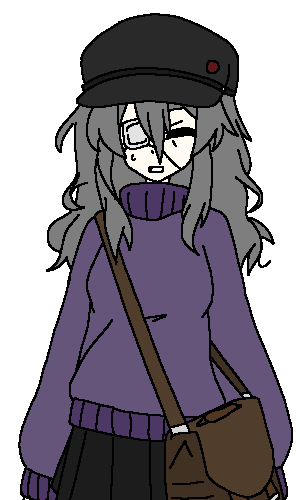
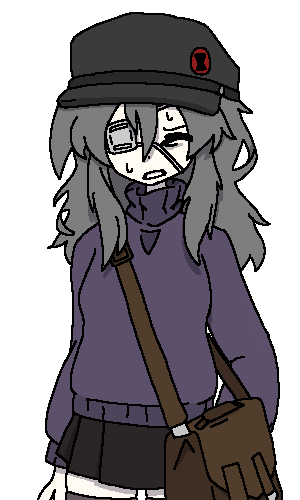
Added new Aina portraits, changed names

Changed region(s): [[0.06, 0.0, 0.99, 1.0], [0.6, 0.03, 0.69, 0.06], [0.78, 0.69, 0.81, 0.72]]

diff --git a/js/effects.js b/js/effects.js
@@ -9,50 +9,51 @@ function backgroundFollowMouse() {
             background.style.transform = `translate3d(calc(${x}px - 50%), calc(${y}px - 50%), 0)`;
         }, "10"); // No reason to run it every millisecond
     });
-} backgroundFollowMouse();
+}
+backgroundFollowMouse();
+
 
 // ======== Clickable Aina ========
 
-var i = 0;
 var squeak = new Audio("/audio/squeak.ogg");
-var images = ["/img/Aina_Looktoside.png", "/img/Aina_Sweat.png", "/img/Aina_Gross.png", "/img/Aina_Neutral.png"]
+var ainaIndex = 0;
+var ainaPortraits = ["/img/Aina_LookToSide.png", "/img/Aina_Sweat.png", "/img/Aina_Gross.png", "/img/Aina_Surprise.png", 
+    "/img/Aina_Embarrassed.png", "/img/Aina_DeadInside.png", "/img/Aina_Neutral.png"]
 
 function changeImage() {
     let img = document.getElementById("character-img");
-    img.src = images[i];
-    if (i > 2) {
-        i = 0;
+    img.src = ainaPortraits[ainaIndex];
+    if (ainaIndex > ainaPortraits.length - 2) {
+        ainaIndex = 0;
     } else {
-        i++;
+        ainaIndex++;
     }
     squeak.cloneNode().play();
-    // document.getElementById("aina-squeak").play();
 }
 
 function selectSFX() {
     document.getElementById('select-sfx').play();
 }
 
-var a = document.getElementsByClassName('snake');
-function animateSequence() {
-    for (var i = 0; i < a.length; i++) {
-        var $this = a[i];
-        var letter = $this.innerHTML;
-        letter = letter.trim();
-        var str = '';
-        var delay = 100;
-        for (l = 0; l < letter.length; l++) {
-            if (letter[l] != ' ') {
-                str += '<span>' + letter[l] + '</span>';
-            } else
-                str += letter[l];
-        }
-        $this.innerHTML = str;
-    }
-}
+// var a = document.getElementsByClassName('snake');
+// function animateSequence() {
+//     for (var i = 0; i < a.length; i++) {
+//         var $this = a[i];
+//         var letter = $this.innerHTML;
+//         letter = letter.trim();
+//         var str = '';
+//         var delay = 100;
+//         for (l = 0; l < letter.length; l++) {
+//             if (letter[l] != ' ') {
+//                 str += '<span>' + letter[l] + '</span>';
+//             } else
+//                 str += letter[l];
+//         }
+//         $this.innerHTML = str;
+//     }
+// }
 
 // animateSequence();
-
 
 
 // ======== CLICK EXPLOSION ========
@@ -106,6 +107,7 @@ function createAudioElement(_parent, _file, _loop) {
     
     audio.play();
 }
+
 
 // ======== MODAL ========
 

diff --git a/css/default.css b/css/default.css
@@ -130,9 +130,6 @@ small {
   color: #f53ea2;
 }
 
-blockquote {
-  margin: 2vh 2vh;
-}
 blockquote.left {
   border-left: 4px solid #a80ba0;
   padding-left: 20px;
@@ -213,15 +210,15 @@ img.title-img {
   -webkit-text-stroke: 0.01rem rgba(255, 240, 246, 0.4392156863);
 }
 
-.introduction {
+#introduction {
   grid-area: a;
   padding-left: 10%;
 }
-.introduction h1 {
+#introduction h1 {
   font-size: 1.6vw;
   margin-bottom: 2vh;
 }
-.introduction h2 {
+#introduction h2 {
   font-family: "Sedgwick Ave Display", sans-serif;
   font-size: 3vw;
   margin-bottom: 4vh;
@@ -542,13 +539,10 @@ h1.page-title {
   background-image: url("/gallery/waking-dreams/Space_BG.png");
   width: 200%;
   height: 200vh;
-  opacity: 60%;
-  background-position: bottom;
   position: fixed;
-  top: -100%;
-  left: -100%;
-  animation: scroll 60s linear infinite;
   z-index: -2;
+  animation: scroll 60s linear infinite;
+  opacity: 60%;
 }
 
 .modal {
@@ -734,31 +728,54 @@ input:checked + .slider:before {
 }
 @keyframes scroll {
   100% {
-    transform: translate(768px, 768px);
+    background-position: 768px 768px;
   }
 }
-.snake span {
+.wavey-text {
+  margin-top: 4px;
+  margin-bottom: 4px;
   display: inline flex;
-  animation: snake 0.5s ease-in-out infinite alternate;
+  text-decoration: none;
 }
-.snake span:nth-child(1) {
+.wavey-text span {
+  animation: wavey 0.5s ease-in-out infinite alternate;
+}
+.wavey-text:nth-child(1) {
   animation-delay: 0s;
 }
-.snake span:nth-child(2) {
+.wavey-text:nth-child(2) {
   animation-delay: 0.2s;
 }
-.snake span:nth-child(3) {
+.wavey-text:nth-child(3) {
   animation-delay: 0.4s;
 }
-.snake span:nth-child(4) {
+.wavey-text:nth-child(4) {
   animation-delay: 0.6s;
 }
-
-@keyframes snake {
-  0% {
+@keyframes wavey {
+  from {
     transform: translateY(4px);
   }
-  100% {
+  to {
     transform: translateY(-4px);
   }
+}
+.wavey-text :nth-child(5n+0) {
+  animation-delay: -0.2ss;
+}
+
+.wavey-text :nth-child(5n+1) {
+  animation-delay: -0.16ss;
+}
+
+.wavey-text :nth-child(5n+2) {
+  animation-delay: -0.12ss;
+}
+
+.wavey-text :nth-child(5n+3) {
+  animation-delay: -0.08ss;
+}
+
+.wavey-text :nth-child(5n+4) {
+  animation-delay: -0.04ss;
 }/*# sourceMappingURL=default.css.map */

diff --git a/css/default.scss b/css/default.scss
@@ -99,7 +99,7 @@ small {
 }
 
 blockquote {
-    margin: 2vh 2vh;
+    // margin: 2vh 2vh;
 
     &.left {
         border-left: 4px solid $primary-color;
@@ -199,7 +199,7 @@ img {
     -webkit-text-stroke: 0.01rem $neon-dim-color;
 }
 
-.introduction {
+#introduction {
     grid-area: a;
     padding-left: 10%;
 
@@ -592,16 +592,12 @@ h1.page-title {
     background-image: url('/gallery/waking-dreams/Space_BG.png'); // this is just the default image
     width: 200%;
     height: 200vh;
-    opacity: 60%;
-    background-position: bottom;
     position: fixed;
-
-    top: -100%;
-    left: -100%;
-
+	z-index: -2;
+    
     animation: scroll 60s linear infinite;
     
-	z-index: -2;
+    opacity: 60%;
 }
 
 // ====== MODAL POPUP ======
@@ -805,13 +801,22 @@ input:checked + .slider:before {
 }
 
 @keyframes scroll {
-    100% { transform: translate(768px, 768px); }
+    100% { background-position: 768px 768px; }
 }
 
-.snake span { 
-    display: inline flex;
-    animation: snake 0.5s ease-in-out infinite alternate; 
+$wave-offset: 4px;
+$count : 5;
+$duration: 0.1s;
 
+.wavey-text { 
+    margin-top: $wave-offset;
+    margin-bottom: $wave-offset;
+    display: inline flex;
+    text-decoration: none;
+
+    span {
+        animation: wavey 0.5s ease-in-out infinite alternate; 
+    }
     &:nth-child(1) {
         animation-delay: 0s;
     }
@@ -824,9 +829,21 @@ input:checked + .slider:before {
     &:nth-child(4) {
         animation-delay: 0.6s;
     }
+
+    
+    &:hover {
+    }
 }
 
-@keyframes snake {
-    0% { transform: translateY(4px); }
-    100% { transform: translateY(-4px); }
+@keyframes wavey {
+    from { transform: translateY($wave-offset); }
+    to { transform: translateY(-$wave-offset); }
 }
+
+@for $i from 0 to $count {
+    .wavey-text :nth-child( #{$count}n + #{$i} ) {
+        animation-delay: -#{($count - $i) * 2 * $duration / $count }s;
+        // color: rgba(100 + $i * 20 % 155, 10, 100 + $i * 40 % 55, 1);
+    }
+}
+

diff --git a/gallery/waking-dreams/index.html b/gallery/waking-dreams/index.html
@@ -51,7 +51,7 @@
                 <div class="developer-showcase">
                     <img class="img-xsmall circle" src="profile-KawaiiBakemono.png" alt="">
                     <div>
-                        <h3 class="gradient-text">KawaiiBakemono</h3>
+                        <h3 class="gradient-text">ZephyrBytes</h3>
                         <a href="#plugins"><blockquote class="section-link">Plugin Programmer</blockquote></a>
                         <a href="#logo-design"><blockquote class="section-link">Logo Designer</blockquote></a>
                     </div>
@@ -181,7 +181,13 @@
                     <div class="titlebar unselectable"><p>- o x</p></div>
                     <h2 class="gallery-h2 neon-text">Game Download</h2>
                     <p>Download the demo for the game
-                        <a class="snake" href="https://dreamingcassette.itch.io/waking-dreams-episode-i-nightmares-of-life" target="_blank">here!</a>
+                        <a class="wavey-text" href="https://dreamingcassette.itch.io/waking-dreams-episode-i-nightmares-of-life" target="_blank">
+                            <!-- <span>h</span>
+                            <span>e</span>
+                            <span>r</span>
+                            <span>e</span>
+                            <span>!</span> -->
+                        </a>
                     </p>
                 </div>
             </section>

diff --git a/home/index.html b/home/index.html
@@ -22,10 +22,14 @@
 		<div hx-get="/html/template-header.html" hx-trigger="load" defer></div>
 		<main class="main-wrapper">
 			<!-- Page Title -->
-			<div class="introduction grid-line">
+			<div id="introduction" class="grid-line">
 				<h1>Hi! I'm</h1>
                 <h2 id="scrambled-header" class="neon-text">KawaiiBakemono</h2>
-                <blockquote>A chronically online chick who loves modding games, drawing cute (and sometimes surreal) stuff, and learning about anything she finds cool!</blockquote>
+                <blockquote class="left">I'm a chronically online chick who loves modding games, drawing cute (and sometimes surreal) stuff, and learning about anything she finds cool!</blockquote>
+                <br>
+                <blockquote class="left">I'm currently developing <a href="/gallery/waking-dreams/">Waking Dreams</a>, an RPG Maker horror game!</blockquote>
+                <br>
+                <blockquote class="left"><b>I do NOT use AI for any of my work!</b> Do NOT use MY work to train your filthy LLM!</blockquote>
                 <div class="spacer"></div>
 			</div>
             <div class="area-c construction-notice">

diff --git a/html/template-header.html b/html/template-header.html
@@ -13,6 +13,7 @@
             <li><button type="button" class="squombus-button" onclick="location.href='/'"><img class="button-icon" src="/icons/home.svg" alt="">Home</button></li>
             <li><button type="button" class="squombus-button" onclick="location.href='/about-me'"><img class="button-icon" src="/icons/about-me.svg" alt="">About Me</button></li>
             <li><button type="button" class="squombus-button" onclick="location.href='/gallery'"><img class="button-icon" src="/icons/gallery.svg" alt="">Gallery</button></li>
+            <li><button type="button" class="squombus-button" onclick="location.href='/gallery/waking-dreams'"><img class="button-icon" src="/icons/tulip.svg" alt="">Waking Dreams</button></li>
             <li><button id="contact-button" class="squombus-button" type="button" onclick="location.href='/'"><img class="button-icon" src="/icons/contact.svg" alt="">Contact</button></li>
         </ul>
         <!-- Icons for external links -->

diff --git a/js/text_scramble.js b/js/text_scramble.js
@@ -27,7 +27,7 @@ class TextScramble {
             return promise;
         } catch (error) {
             if (error instanceof TypeError) {
-                console.log(error.message);
+                console.error(error.message);
             }
         }
     }
@@ -74,8 +74,7 @@ class TextScramble {
 // Neon Text scramble
 
 const phrases = [
-    "KawaiiBakemono",
-    "Kathryn Beam",
+    "ZephyrBytes",
     "An Artist",
     "A Programmer",
     "A Game Developer",
